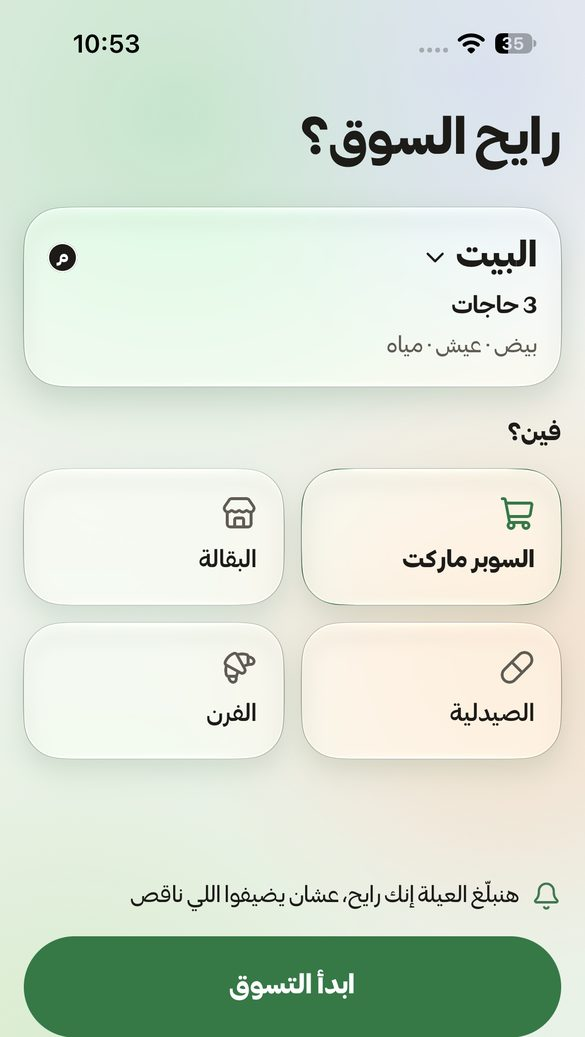
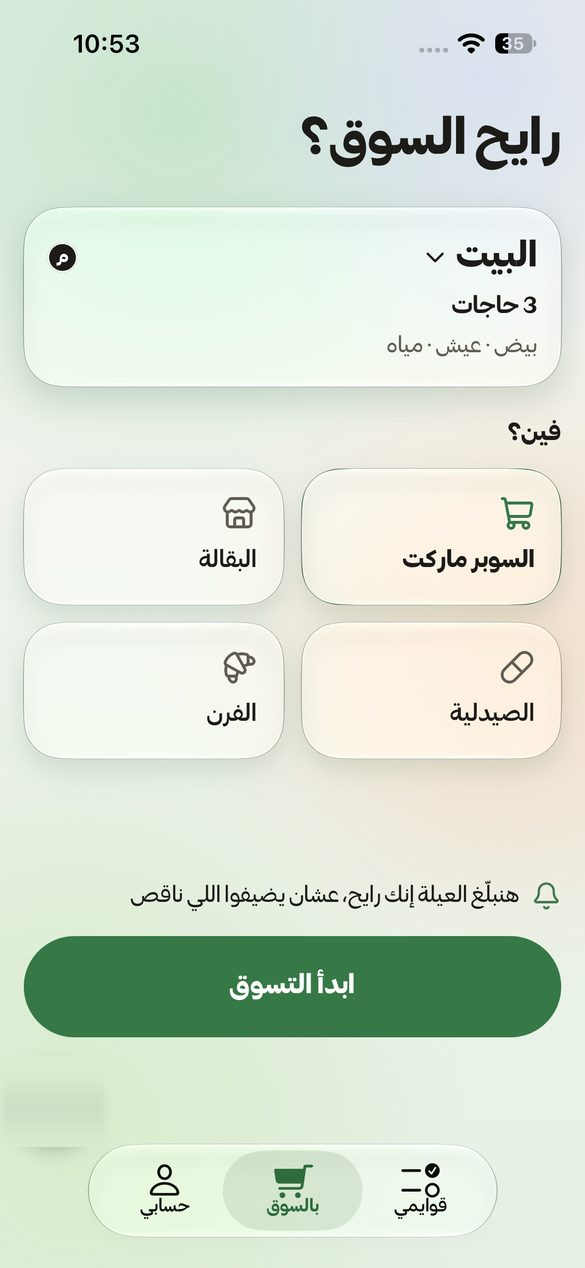
Landing page: taller phone mockups
Claude-Session: https://claude.ai/code/session_01Do6v7vy4VsMfedSmQ1Nq5Z

diff --git a/frontend/invite/index.html b/frontend/invite/index.html
@@ -40,7 +40,7 @@
         </div>
       </div>
       <div class="phone hero-phone">
-        <img src="/img/list.jpg" alt="قائمة البيت في سلّتنا" width="585" height="1037" />
+        <img src="/img/list.jpg" alt="قائمة البيت في سلّتنا" width="585" height="1268" />
       </div>
     </section>
 
@@ -122,19 +122,19 @@
       <h2>شكلها من جوه</h2>
       <div class="screens">
         <figure>
-          <div class="phone"><img src="/img/lists.jpg" alt="قوايمي: البيت والصحاب" width="585" height="1037" loading="lazy" /></div>
+          <div class="phone"><img src="/img/lists.jpg" alt="قوايمي: البيت والصحاب" width="585" height="1268" loading="lazy" /></div>
           <figcaption>قوايمي</figcaption>
         </figure>
         <figure>
-          <div class="phone"><img src="/img/list.jpg" alt="قائمة البيت" width="585" height="1037" loading="lazy" /></div>
+          <div class="phone"><img src="/img/list.jpg" alt="قائمة البيت" width="585" height="1268" loading="lazy" /></div>
           <figcaption>القائمة</figcaption>
         </figure>
         <figure>
-          <div class="phone"><img src="/img/start.jpg" alt="رايح السوق؟" width="585" height="1037" loading="lazy" /></div>
+          <div class="phone"><img src="/img/start.jpg" alt="رايح السوق؟" width="585" height="1268" loading="lazy" /></div>
           <figcaption>رايح السوق؟</figcaption>
         </figure>
         <figure>
-          <div class="phone"><img src="/img/shopper.jpg" alt="أنا في السوق" width="585" height="1037" loading="lazy" /></div>
+          <div class="phone"><img src="/img/shopper.jpg" alt="أنا في السوق" width="585" height="1268" loading="lazy" /></div>
           <figcaption>أنا في السوق</figcaption>
         </figure>
       </div>

diff --git a/PROGRESS.md b/PROGRESS.md
@@ -1561,3 +1561,4 @@ picture on the list cards, not the tab bar).
 - The four screenshots on sallitna.online are new iPhone shots of the glass app: قوايمي, القائمة, رايح السوق؟, أنا في السوق
   (the Expo gear button and the tab bar cropped out). Old home/answer/helper images removed. The hero uses the list shot.
 - Phone frame is a light glass frame instead of black.
+- Landing screenshots are taller again (full phone height, with the tab bar); the Expo gear button is painted out.
